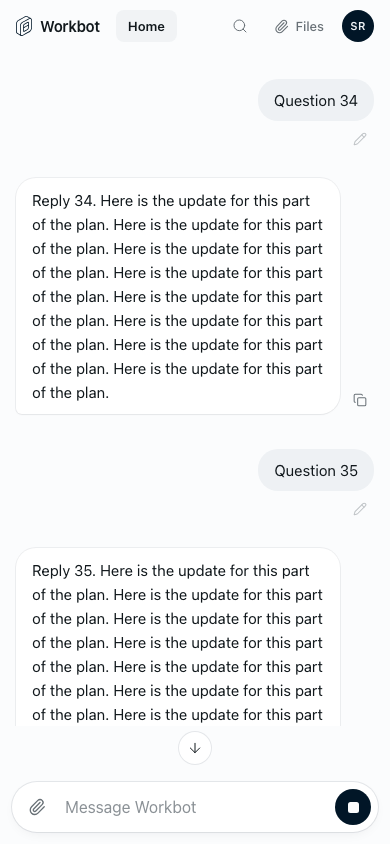
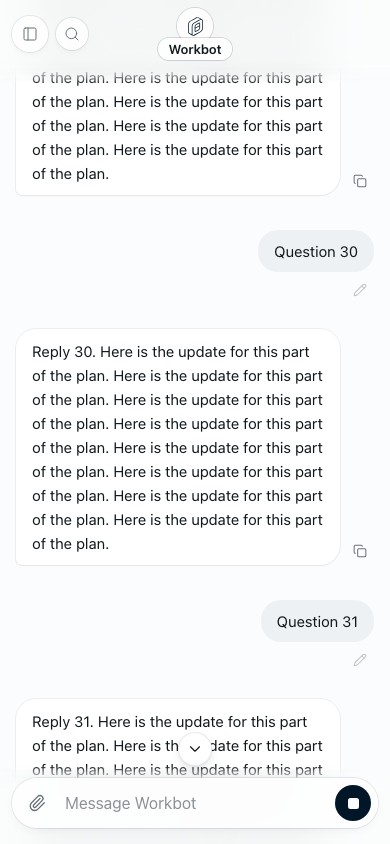
fix(workbot): float the chat header and message box over the conversation
The scroll-to-latest arrow (#7143) took its own 44px row between the
conversation and the message box, and the composer wrapper added 12px more:
a ~56 CSS px (~168 device px) blank strip on an iPhone, with reply text
hard-cut at the conversation's bottom edge. The header and composer were
in-flow solid blocks, so nothing ever showed under them.

The header and the message box now float (absolute) over the conversation as
translucent, blurred layers that fade at their edges. floating-chrome.ts
measures their heights with ResizeObserver into --wb-chrome-top/bottom, and
the conversation pads its ends by exactly that, so the first and last message
still scroll fully clear. The chat column reaches into the safe areas and the
floating parts pad themselves; with the iPhone keyboard open the bottom safe
area is dropped. The arrow is an absolute 34px circle 12px above the message
box and never changes the conversation's size or padding.

The floating chrome is unflagged (the solid bars show with every flag off);
the arrow stays behind workbotScrollToBottom.

diff --git a/ee/packages/workbot-ui/src/screen.tsx b/ee/packages/workbot-ui/src/screen.tsx
@@ -1,6 +1,6 @@
 "use client";
 
-import { ArrowDown, ArrowUp, Check, CircleAlert, Copy, FileText, Globe, Lock, MessageCircle, Monitor, Pencil, Presentation, X } from "lucide-react";
+import { ArrowUp, Check, ChevronDown, CircleAlert, Copy, FileText, Globe, Lock, MessageCircle, Monitor, Pencil, Presentation, X } from "lucide-react";
 import { createContext, useCallback, useContext, useEffect, useLayoutEffect, useMemo, useRef, useState, useSyncExternalStore, type ClipboardEvent, type KeyboardEvent, type ReactNode } from "react";
 import { computerTabLabel, computerViews, setWorkbotHost, workbotHost, type WorkbotHost } from "./host";
 import { OpenWorkMark } from "./mark";
@@ -60,6 +60,7 @@ import { firstReply } from "./first-reply";
 import { remoteJobActivity, remoteWatcherTaskIds, useWorkbotRemoteJobs } from "./remote-jobs";
 import { createConversationScrollState, useConversationScroll, type ConversationScrollState } from "./conversation-scroll";
 import { useWorkbotViewport } from "./viewport";
+import { useFloatingChrome } from "./floating-chrome";
 import { fitTextarea } from "./auto-height";
 import { connectorSummary } from "./connector-activity";
 import { ConnectorLine } from "./connector-line";
@@ -371,7 +372,9 @@ function ChatScreen({ host, composerState, position, navigation, onDraftsChange 
     account: <AccountAvatar userName={user?.name ?? null} />,
   };
   const mobileNavigation = !showDesktopNavigation ? <MobileNavigation {...navigationProps} /> : null;
-  const layout = (children: ReactNode) => <div className="workbot workbot-layout flex min-h-0 min-w-0 bg-[var(--wb-bg)] antialiased">
+  // The chat's header and message box float over its conversation (floating-chrome.ts); other views keep them solid.
+  const chrome = useFloatingChrome();
+  const layout = (children: ReactNode, floating = false) => <div className={`workbot workbot-layout flex min-h-0 min-w-0 bg-[var(--wb-bg)] antialiased ${floating ? "is-floating-chrome" : ""}`}>
     {showDesktopNavigation && <DesktopNavigation {...navigationProps} />}
     <div className="workbot-layout-main flex min-h-0 min-w-0 flex-1 flex-col">{children}</div>
     {profileTab && activity && <ProfileSheet key={profileTab} open onClose={() => setProfileTab(null)} name={data?.name ?? "Workbot"} activity={activity} initialTab={profileTab} />}
@@ -477,15 +480,17 @@ function ChatScreen({ host, composerState, position, navigation, onDraftsChange 
       : welcome === "showing" ? <Welcome name={name} firstName={firstName} onBegin={() => { if (start.isIdle) { setGreetingAwaited(true); start.mutate(); } }} onDone={() => setWelcome("done")} />
       : data && empty && side ? <SideChatStart name={name} organizationName={data.organizationName}>{attached}{composer}</SideChatStart>
       : data && empty && !starting ? <FirstOpen name={name} organizationName={data.organizationName} firstName={firstName} onSuggestion={text => submit(text)} error={start.isError ? start.error instanceof WorkbotSendError && start.error.accessReason ? <AccessRecovery reason={start.error.accessReason} onRetry={() => { setGreetingAwaited(true); start.mutate(); }} /> : <ErrorLine action={{ label: "Try again", onClick: () => { setGreetingAwaited(true); start.mutate(); } }}>{HELLO_FAILED}</ErrorLine> : null}>{attached}{composer}</FirstOpen>
-      : <>{conversation}<div className="flex shrink-0 justify-center px-3 pb-4 pt-3"><div className={COLUMN}>{attached}{composer}</div></div></>;
+      : <>{conversation}<div ref={chrome.bottom} className="workbot-chrome-bottom absolute inset-x-0 bottom-0 z-20 flex justify-center px-3" data-workbot-floating-composer><div className={COLUMN}>{attached}{composer}</div></div></>;
+    // Only the conversation itself floats its header and message box; a welcome, first open or error stays as it was.
+    const floating = tab === "home" && Boolean(data || loading) && welcome !== "showing" && !(data && empty && (side || !starting));
     return <OpenFileContext.Provider value={setPreview}>
       <OpenDocumentContext.Provider value={tab === "documents" && documentContext?.kind === "document" ? documentContext.fileId : null}>
       <WorkspaceNavigationContext.Provider value={host.workspaceAssistant && host.documents ? navigateFromChat : null}>
       <ComputerNavigationContext.Provider value={navigateComputerFromChat}>
       <ComputerOnScreenContext.Provider value={tab === "computer" ? computerView : null}>
       <DocumentNavigationContext.Provider value={guided && host.documents ? { status: navigationStatus, open: followNavigation } : null}>
-        {layout(<div className="flex min-h-0 flex-1 flex-col" data-workbot-workspace>
-          <WorkbotHeader name={name} organizationName={data?.organizationName ?? ""} userName={user?.name ?? null} answered={hasAnsweredTurn(data?.turns)} activity={activity}
+        {layout(<div ref={chrome.frame} className="relative flex min-h-0 flex-1 flex-col" data-workbot-workspace>
+          <WorkbotHeader floating={floating ? chrome.top : undefined} name={name} organizationName={data?.organizationName ?? ""} userName={user?.name ?? null} answered={hasAnsweredTurn(data?.turns)} activity={activity}
             files={filesEnabled ? <FilesButton open={filesOpen} onOpen={() => setFilesOpen(true)} /> : null}
             chats={mobileNavigation} search={!showDesktopNavigation ? palette : null}
             page={pageTitle} action={askAbout ? <AskWorkbotButton name={name} onClick={askAbout} /> : null}
@@ -494,7 +499,7 @@ function ChatScreen({ host, composerState, position, navigation, onDraftsChange 
           />
           <div className="flex min-h-0 min-w-0 flex-1">
           <div className="flex min-h-0 min-w-0 flex-1 flex-col">
-          <div className="flex min-h-0 min-w-0 flex-1 flex-col" style={{ display: tab === "home" ? undefined : "none" }} hidden={tab !== "home"}>{home}</div>
+          <div className="relative flex min-h-0 min-w-0 flex-1 flex-col" style={{ display: tab === "home" ? undefined : "none" }} hidden={tab !== "home"}>{home}</div>
           <div className="flex min-h-0 min-w-0 flex-1 border-t border-[var(--wb-hairline)]" style={{ display: tab === "documents" ? undefined : "none" }} hidden={tab !== "documents"}>
             {(documentsVisited || tab === "documents") && <WorkbotDocuments onDirtyChange={reportDocumentDirty} onContextChange={setDocumentContext} openDocument={openDocument} onOpenSettled={settleNavigation} />}
           </div>
@@ -509,7 +514,7 @@ function ChatScreen({ host, composerState, position, navigation, onDraftsChange 
           {previewFile && <PreviewPanel file={previewFile} onClose={() => setPreview(null)} />}
           </div>
           {filesEnabled && <FilesPanel open={filesOpen} onClose={() => setFilesOpen(false)} assistantName={name} onOpenFile={file => { setFilesOpen(false); setPreview(file); }} />}
-        </div>)}
+        </div>, floating)}
       </DocumentNavigationContext.Provider>
       </ComputerOnScreenContext.Provider>
       </ComputerNavigationContext.Provider>
@@ -601,10 +606,13 @@ function ChatScreen({ host, composerState, position, navigation, onDraftsChange 
   );
 
   const chatId = navigation?.chat ?? null;
+  // Only the conversation itself floats its header and message box over it (floating-chrome.ts).
+  const floating = !(empty && (side || !starting));
   return (
     <OpenFileContext.Provider value={setPreview}>
-    {layout(<div className="flex min-h-0 flex-1 flex-col">
+    {layout(<div ref={chrome.frame} className="relative flex min-h-0 flex-1 flex-col">
       <WorkbotHeader
+        floating={floating ? chrome.top : undefined}
         name={shown.name}
         organizationName={shown.organizationName}
         userName={user?.name ?? null}
@@ -616,7 +624,7 @@ function ChatScreen({ host, composerState, position, navigation, onDraftsChange 
         activity={activity}
       />
       <div className="flex min-h-0 flex-1">
-      <div className="flex min-h-0 min-w-0 flex-1 flex-col">
+      <div className="relative flex min-h-0 min-w-0 flex-1 flex-col">
       {empty && side ? (
         <SideChatStart name={shown.name} organizationName={shown.organizationName}>{composer}</SideChatStart>
       ) : empty && !starting ? (
@@ -674,7 +682,7 @@ function ChatScreen({ host, composerState, position, navigation, onDraftsChange 
                   })()
             }
           />
-          <div className="flex shrink-0 justify-center px-3 pb-3 pt-3 sm:px-10 sm:pb-7">
+          <div ref={chrome.bottom} className="workbot-chrome-bottom absolute inset-x-0 bottom-0 z-20 flex justify-center px-3 sm:px-10" data-workbot-floating-composer>
             <div className={COLUMN}>
               {composer}
             </div>
@@ -700,7 +708,7 @@ function ChatScreen({ host, composerState, position, navigation, onDraftsChange 
           <p className="flex items-center gap-2 text-[14px] font-medium text-[var(--wb-text)]"><FileText size={16} strokeWidth={1.75} aria-hidden />Drop to add to your message</p>
         </div>
       ) : null}
-    </div>)}
+    </div>, floating)}
     </OpenFileContext.Provider>
   );
 }
@@ -839,6 +847,8 @@ function WorkbotHeader(props: {
   page?: string;
   /** That view's one action, such as Ask Workbot about the open document. */
   action?: ReactNode;
+  /** Floats the chat's header over its conversation (translucent, blurred); measured through this ref. */
+  floating?: (node: HTMLElement | null) => void;
 }) {
   const { name } = props;
   if (props.page) return (
@@ -849,8 +859,8 @@ function WorkbotHeader(props: {
     </header>
   );
   return (
-    <header className="grid min-h-[84px] shrink-0 grid-cols-[minmax(0,1fr)_auto_minmax(0,1fr)] items-start gap-2 px-3 pb-2 pt-2 sm:px-5" data-workbot-profile-header>
-      <div className="flex min-w-0 items-center gap-1 pt-2">
+    <header ref={props.floating} className={`grid min-h-[84px] shrink-0 grid-cols-[minmax(0,1fr)_auto_minmax(0,1fr)] items-start gap-2 px-3 pb-2 pt-2 sm:px-5 ${props.floating ? "workbot-chrome-top absolute inset-x-0 top-0 z-20" : ""}`} data-workbot-profile-header data-workbot-floating-header={props.floating ? "" : undefined}>
+      <div className={`flex min-w-0 items-center pt-2 ${props.floating ? "gap-2" : "gap-1"}`} data-workbot-header-side>
         {props.chats}{props.search}
         <div className="hidden min-w-0 lg:contents">{props.nav}</div>
       </div>
@@ -858,7 +868,7 @@ function WorkbotHeader(props: {
         <h1><ProfileBadge name={name} activity={props.activity} /></h1>
         {props.title ? <div className="flex max-w-[150px] items-center gap-1 text-[12px]">{props.title}</div> : null}
       </div>
-      <div className="flex min-w-0 items-center justify-end gap-1 pt-2 sm:gap-2.5">
+      <div className="flex min-w-0 items-center justify-end gap-1 pt-2 sm:gap-2.5" data-workbot-header-side>
         {props.remove}
         <div className="hidden sm:contents"><WorkbotSetupChip answered={props.answered === true} /></div>
       </div>
@@ -1067,12 +1077,12 @@ function Conversation(props: {
   Object.assign(previews.current, localUrls);
 
   return (
-    <div className={`relative flex min-h-0 flex-1 flex-col ${workbotHost().scrollToBottom === true ? "pb-11" : ""}`} data-workbot-conversation>
+    <div className="relative flex min-h-0 flex-1 flex-col" data-workbot-conversation>
     <div
       ref={scroller}
       className="workbot-scroll min-h-0 flex-1 overflow-y-auto [overflow-anchor:none]"
     >
-      <div ref={content} className="flex min-h-full flex-col items-center justify-end px-4 pb-2 pt-6 sm:px-10">
+      <div ref={content} className="workbot-scroll-content flex min-h-full flex-col items-center justify-end px-4 sm:px-10">
         <div className={`${COLUMN} flex flex-col`}>
           {props.loading ? <ThreadPlaceholder /> : props.hasEarlier && props.earlierLimit ? (
             <p className="mb-6 text-center text-[12px] text-[var(--wb-muted)]" role="status">History limit reached. Earlier messages aren&apos;t available here.</p>
@@ -1135,12 +1145,15 @@ function Conversation(props: {
   );
 }
 
-/** A quiet 32px circle with a 44px touch target; its containing block ends above the composer. */
+/**
+ * A quiet 34px circle with a 44px touch target, floating 12px above the message box (styles.css). It never takes a row
+ * of its own and never changes the conversation's size or padding.
+ */
 function ScrollToBottom({ visible, onClick }: { visible: boolean; onClick(): void }) {
   return <button type="button" aria-label="Scroll to latest message" title="Scroll to latest message"
     aria-hidden={!visible} tabIndex={visible ? 0 : -1} disabled={!visible} onClick={onClick}
-    className={`workbot-scroll-latest absolute bottom-0 left-1/2 z-10 grid size-11 -translate-x-1/2 place-items-center rounded-full focus-visible:outline-none focus-visible:shadow-[var(--wb-focus)] ${visible ? "is-visible" : ""}`}>
-    <span className="grid size-8 place-items-center rounded-full bg-[var(--wb-surface)] text-[var(--wb-text)] shadow-[0_0_0_1px_var(--wb-ring)]"><ArrowDown size={16} strokeWidth={1.5} aria-hidden /></span>
+    className={`workbot-scroll-latest absolute left-1/2 z-30 grid size-11 -translate-x-1/2 place-items-center rounded-full focus-visible:outline-none focus-visible:shadow-[var(--wb-focus)] ${visible ? "is-visible" : ""}`}>
+    <span className="grid size-[34px] place-items-center rounded-full border border-[var(--wb-ring)] bg-[var(--wb-surface)] text-[var(--wb-text)] shadow-[0_4px_12px_-4px_#01162733,0_1px_2px_#0116270f]"><ChevronDown size={18} strokeWidth={1.5} aria-hidden /></span>
   </button>;
 }
 

diff --git a/ee/packages/workbot-ui/src/styles.css b/ee/packages/workbot-ui/src/styles.css
@@ -46,8 +46,10 @@
 }
 
 /* One viewport owner: iOS's keyboard changes visualViewport, not 100dvh. Safe areas belong to the page, not the arrow. */
-.workbot-viewport { position: fixed; inset: 0; top: var(--wb-viewport-top, 0px); height: var(--wb-viewport-height, 100dvh); overflow: hidden; }
-.workbot-viewport > .workbot { height: 100%; padding-top: env(safe-area-inset-top); padding-bottom: env(safe-area-inset-bottom); }
+.workbot-viewport { --wb-safe-bottom: env(safe-area-inset-bottom); position: fixed; inset: 0; top: var(--wb-viewport-top, 0px); height: var(--wb-viewport-height, 100dvh); overflow: hidden; }
+/* With the keyboard open the message box sits on the keyboard, not above a home indicator it covers. */
+.workbot-viewport[data-workbot-keyboard] { --wb-safe-bottom: 0px; }
+.workbot-viewport > .workbot { height: 100%; padding-top: env(safe-area-inset-top); padding-bottom: var(--wb-safe-bottom, env(safe-area-inset-bottom)); }
 /* Preview changes the layout, not the viewer: a dark, full-screen phone sheet around the same browser. */
 .workbot-browser-sheet {
   --wb-bg: #171a19;
@@ -64,9 +66,71 @@
 }
 [data-workbot-browser-layout] > div > .workbot { height: 100%; }
 /* One responsive shell; the conversation and composer share an 800px column within the remaining desktop space. */
-.workbot-layout { height: 100%; padding-top: env(safe-area-inset-top); padding-bottom: env(safe-area-inset-bottom); }
+.workbot-layout { height: 100%; padding-top: env(safe-area-inset-top); padding-bottom: var(--wb-safe-bottom, env(safe-area-inset-bottom)); }
 .workbot-layout-main { overflow: hidden; }
-/* The arrow has its own strip above the composer, never over reply text or the message box. */
+
+/*
+ * The chat's header and message box float over the conversation, like a messaging app: translucent and blurred, so
+ * messages scroll underneath them and stay faintly readable. The chat column reaches into the safe areas (the floating
+ * parts pad themselves instead), and the conversation pads its ends by their measured heights (floating-chrome.ts).
+ */
+.workbot {
+  --wb-float-bg: color-mix(in srgb, var(--wb-bg) 76%, transparent);
+  --wb-float-control: color-mix(in srgb, var(--wb-surface) 82%, transparent);
+  --wb-float-blur: blur(20px) saturate(180%);
+}
+.workbot-layout.is-floating-chrome > .workbot-layout-main {
+  margin-top: calc(-1 * env(safe-area-inset-top));
+  margin-bottom: calc(-1 * var(--wb-safe-bottom, env(safe-area-inset-bottom)));
+}
+.workbot-chrome-top { padding-top: calc(env(safe-area-inset-top) + 8px); }
+.workbot-chrome-bottom { padding-top: 12px; padding-bottom: max(16px, calc(var(--wb-safe-bottom, env(safe-area-inset-bottom)) + 4px)); }
+/* The blur lives on its own layer, which fades out toward the conversation instead of ending in a hard line. */
+.workbot-chrome-top::before, .workbot-chrome-bottom::before {
+  content: "";
+  position: absolute;
+  inset: 0;
+  z-index: -1;
+  pointer-events: none;
+  background: var(--wb-float-bg);
+  -webkit-backdrop-filter: var(--wb-float-blur);
+  backdrop-filter: var(--wb-float-blur);
+}
+.workbot-chrome-top, .workbot-chrome-bottom { isolation: isolate; }
+.workbot-chrome-top::before {
+  -webkit-mask-image: linear-gradient(to top, transparent 0, #000 14px);
+  mask-image: linear-gradient(to top, transparent 0, #000 14px);
+}
+.workbot-chrome-bottom::before {
+  -webkit-mask-image: linear-gradient(to bottom, transparent 0, #000 22px);
+  mask-image: linear-gradient(to bottom, transparent 0, #000 22px);
+}
+/* The header's buttons become small floating circles over the conversation. */
+.workbot-chrome-top [data-workbot-header-side] button {
+  border-radius: 9999px;
+  background: var(--wb-float-control);
+  box-shadow: 0 0 0 1px var(--wb-ring), 0 2px 8px -4px #01162724;
+}
+.workbot-chrome-top [data-workbot-header-side] button:hover { background: var(--wb-chip); }
+.workbot-chrome-top [data-workbot-header-side] button:focus-visible { box-shadow: var(--wb-focus); }
+/* The name pill and the message box are glass too: what scrolls under them stays faintly there. */
+.workbot-chrome-top [data-workbot-profile-badge] > span,
+.workbot-chrome-bottom [data-workbot-composer] {
+  background: var(--wb-float-control);
+  -webkit-backdrop-filter: var(--wb-float-blur);
+  backdrop-filter: var(--wb-float-blur);
+}
+/* Under a floating header the conversation needs no fade of its own. */
+.is-floating-chrome .workbot-scroll { -webkit-mask-image: none; mask-image: none; }
+/* Its first and last message can still scroll fully clear of the floating parts (and a focused row stays clear). */
+.workbot-scroll { scroll-padding-top: var(--wb-chrome-top, 0px); scroll-padding-bottom: var(--wb-chrome-bottom, 0px); }
+.workbot-scroll-content { padding-top: calc(var(--wb-chrome-top, 0px) + 24px); padding-bottom: calc(var(--wb-chrome-bottom, 0px) + 8px); }
+
+/*
+ * The arrow floats over the conversation, centred 12px above the message box. It never takes a row of its own and
+ * never changes the conversation's size or padding. The 44px touch target holds a 34px circle, 5px from its bottom.
+ */
+.workbot-scroll-latest { bottom: max(4px, calc(var(--wb-chrome-bottom, 0px) - 5px)); }
 .workbot-scroll-latest { opacity: 0; visibility: hidden; pointer-events: none; transition: opacity 150ms ease-out, visibility 0s 150ms; }
 .workbot-scroll-latest.is-visible { opacity: 1; visibility: visible; pointer-events: auto; transition-delay: 0s; }
 @media (prefers-reduced-motion: reduce) { .workbot-scroll-latest { transition: none; } }

diff --git a/ee/packages/workbot-ui/src/floating-chrome.ts b/ee/packages/workbot-ui/src/floating-chrome.ts
@@ -1,0 +1,39 @@
+import { useLayoutEffect, useState } from "react";
+
+type Frame = { style: Pick<CSSStyleDeclaration, "getPropertyValue" | "setProperty"> };
+
+/** How far the floating header and message box reach over the conversation, for its scroll padding. */
+export const CHROME_TOP = "--wb-chrome-top";
+export const CHROME_BOTTOM = "--wb-chrome-bottom";
+
+/**
+ * The header and the message box float over the conversation (translucent, blurred), so messages scroll underneath
+ * them. The conversation pads its first and last message by their measured heights instead, so both can still scroll
+ * fully into view. A part that is not floating (another view, a docked chat) reaches over nothing: 0px.
+ */
+export function observeFloatingChrome(frame: Frame, top: Element | null, bottom: Element | null) {
+  const write = (name: string, box: Element | null) => {
+    const value = `${box ? Math.ceil(box.getBoundingClientRect().height) : 0}px`;
+    // Only on change: a restyle of the frame lays the whole conversation out again.
+    if (frame.style.getPropertyValue(name) !== value) frame.style.setProperty(name, value);
+  };
+  const measure = () => { write(CHROME_TOP, top); write(CHROME_BOTTOM, bottom); };
+  measure();
+  if (!top && !bottom) return { measure, dispose() {} };
+  // Safe areas, the keyboard, a growing message box, a context chip or the status line all change these heights.
+  const observer = new ResizeObserver(measure);
+  for (const box of [top, bottom]) if (box) observer.observe(box, { box: "border-box" });
+  return { measure, dispose() { observer.disconnect(); } };
+}
+
+/** Refs for the frame that holds both parts and the conversation, the floating header and the floating message box. */
+export function useFloatingChrome() {
+  const [frame, setFrame] = useState<HTMLElement | null>(null);
+  const [top, setTop] = useState<HTMLElement | null>(null);
+  const [bottom, setBottom] = useState<HTMLElement | null>(null);
+  useLayoutEffect(() => {
+    if (!frame) return;
+    return observeFloatingChrome(frame, top, bottom).dispose;
+  }, [frame, top, bottom]);
+  return { frame: setFrame, top: setTop, bottom: setBottom };
+}

diff --git a/ee/packages/workbot-ui/src/viewport.ts b/ee/packages/workbot-ui/src/viewport.ts
@@ -19,11 +19,13 @@ export function useWorkbotViewport(active = true) {
       const nextTop = `${visual.offsetTop}px`;
       if (nextHeight !== height) node.style.setProperty("--wb-viewport-height", (height = nextHeight));
       if (nextTop !== top) node.style.setProperty("--wb-viewport-top", (top = nextTop));
+      // The keyboard covers the home indicator: the message box then sits on the keyboard, without the safe area.
+      node.toggleAttribute("data-workbot-keyboard", window.innerHeight - visual.height > 120);
     };
     resize();
     visual.addEventListener("resize", resize);
     visual.addEventListener("scroll", resize);
-    return () => { visual.removeEventListener("resize", resize); visual.removeEventListener("scroll", resize); };
+    return () => { visual.removeEventListener("resize", resize); visual.removeEventListener("scroll", resize); node.removeAttribute("data-workbot-keyboard"); };
   }, [active, node]);
   return viewport;
 }

diff --git a/ee/packages/workbot-ui/src/preview.tsx b/ee/packages/workbot-ui/src/preview.tsx
@@ -63,7 +63,7 @@ export function PreviewPanel({ file, onClose }: { file: WorkbotAttachment; onClo
   return (
     <aside
       aria-label={file.name}
-      className="workbot-panel-enter fixed inset-0 z-50 flex flex-col overflow-hidden bg-[var(--wb-surface)] lg:static lg:z-auto lg:mb-3 lg:mr-3 lg:w-[min(50vw,800px)] lg:shrink-0 lg:rounded-[18px] lg:shadow-[var(--wb-panel-shadow)]"
+      className="workbot-panel-enter fixed inset-0 z-50 flex flex-col overflow-hidden bg-[var(--wb-surface)] lg:static lg:z-auto lg:mb-3 lg:mr-3 lg:mt-[var(--wb-chrome-top,0px)] lg:w-[min(50vw,800px)] lg:shrink-0 lg:rounded-[18px] lg:shadow-[var(--wb-panel-shadow)]"
     >
       <header className="flex h-14 shrink-0 items-center gap-3 border-b border-[var(--wb-hairline)] pl-4 pr-2.5">
         <FileBadge name={file.name} mediaType={file.mediaType} />

diff --git a/docs/features/workbot-scroll-to-bottom/README.md b/docs/features/workbot-scroll-to-bottom/README.md
@@ -5,12 +5,16 @@
 - Owner: `benjaminshafii`
 - Default: off
 
-A small white down-arrow circle appears in the centre of the conversation, just
+A small 34 px down-chevron circle floats in the centre of the conversation, 12 px
 above the message box, only when the reader is more than one visible conversation
 screen from the bottom. Tap it to scroll smoothly to the latest message. Reduced
 motion makes the jump immediate. It fades over 150 ms and has a 44 px touch target.
-Its own strip keeps it off reply text and the composer; the page respects the
-phone's safe area and visual viewport when the keyboard opens.
+It floats over reply text like the header and message box do: it never takes a row
+of its own and never changes the conversation's size or padding. The page respects
+the phone's safe area and visual viewport when the keyboard opens.
+
+The floating, translucent header and message box are **not** behind this feature:
+they ship for everyone. Only the arrow is.
 
 ![iPhone-size Workbot conversation with scroll-to-latest enabled](arrow.png)
 
